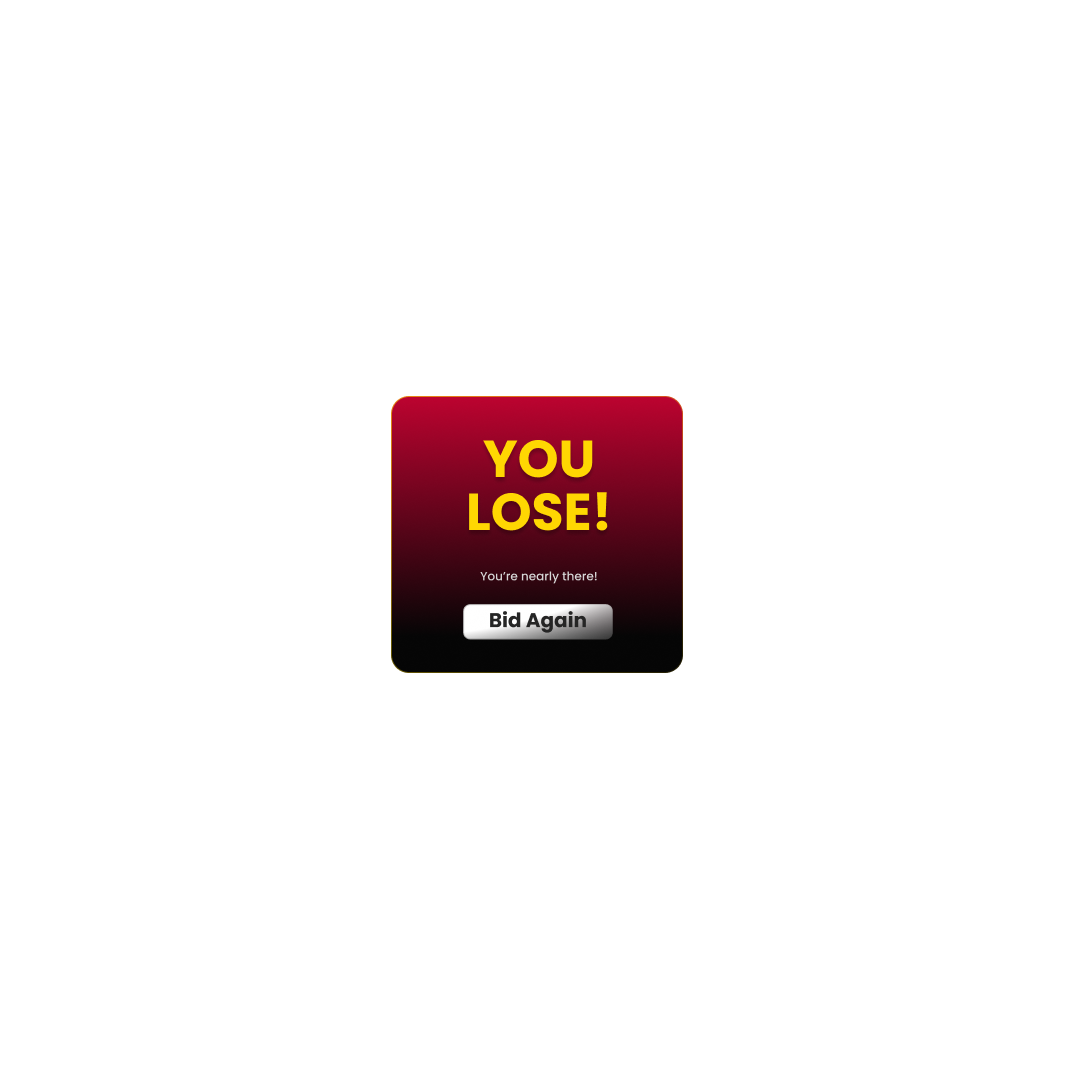
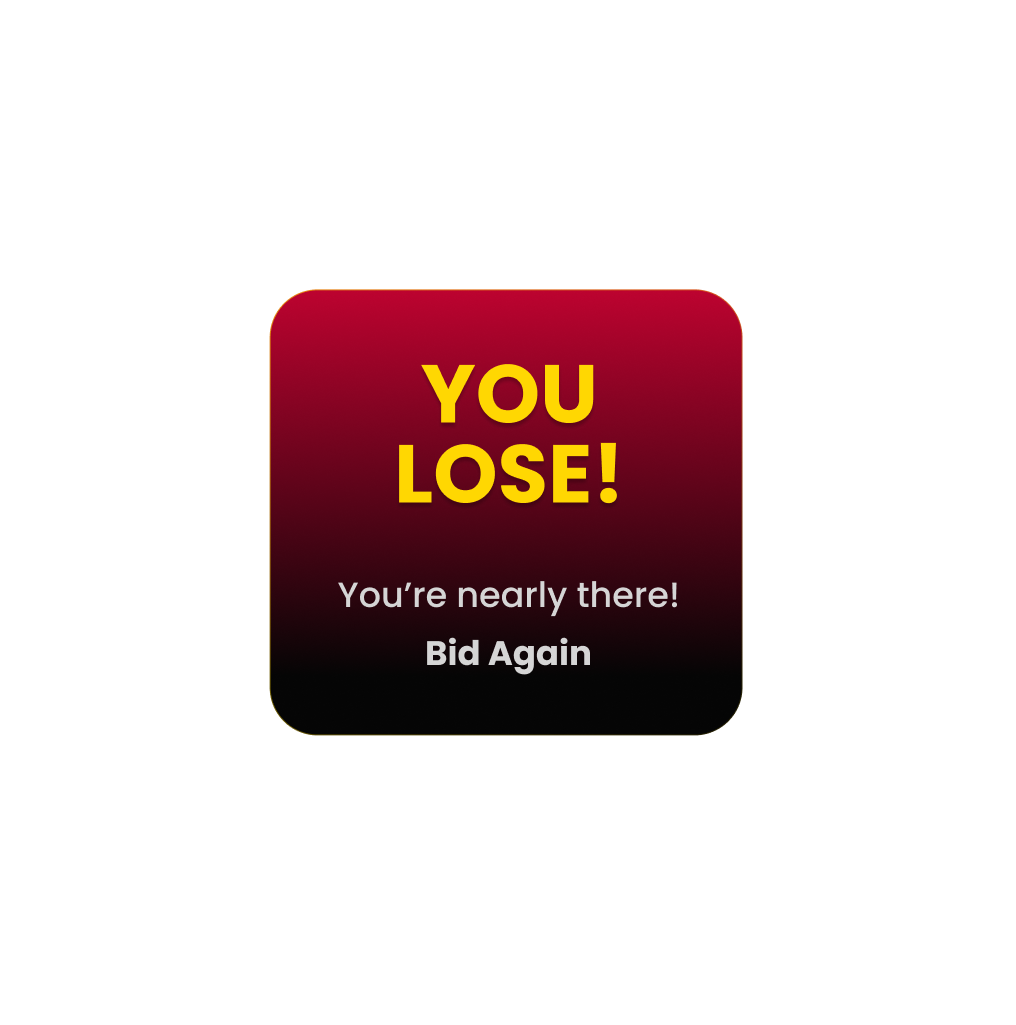
win and lose and timer bug fix

Changed region(s): [[0.2441, 0.281, 0.7323, 0.718]]

diff --git a/src/electra/components/ChatComponents/index.jsx b/src/electra/components/ChatComponents/index.jsx
@@ -25,11 +25,14 @@ const shareButtonStyle = {
     justifyContent: 'center',
     color: 'black',
     alignItems: 'center',
-    marginLeft: 'auto',
-    marginRight: 'auto',
+    marginLeft: '9.5vw',
+    // marginRight: '13vw',
+    // marginBottom:'30vh',
     padding: '10px 20px',
     fontWeight: 700,
-    cursor:"pointer"
+    cursor:"pointer",
+    position:'relative',
+   bottom:'13vh',
   };
 
 const sendButtonStyle={
@@ -240,14 +243,23 @@ const ChatBox = ({userData, websocketData}) => {
         }
 
     }, [winModel,loseModel]);
+
+    useEffect(() => {
+        if (winModel||loseModel) {
+          const timer = setTimeout(() => {
+            closeWinModal()||closeLoseModal()
+          }, 3000); 
+          return () => clearTimeout(timer);
+        }
+      }, [winModel,loseModel]);
     
 
     return (
         <>
         
-        <Modal isOpen={winModel > 0} onClose={ closeWinModal}>
+        <Modal isOpen={winModel > 0} onClose={closeWinModal} >
             <div>
-            <img src={"assets/electra/win-shield.png"}  alt=""  style={{height:"50vh"}}/>
+            <img src={"assets/electra/win-shield.png"}  alt=""  style={{height:"50vh",position:'relative',marginRight:'23vw'}}/>
             <div style={shareButtonStyle} onClick={shareWin}>
                     share &nbsp;&nbsp;
                     <svg xmlns="http://www.w3.org/2000/svg" width="12" height="11" viewBox="0 0 12 11" fill="none">
@@ -260,7 +272,7 @@ const ChatBox = ({userData, websocketData}) => {
 
         <Modal isOpen={loseModel > 0} onClose={closeLoseModal}>
             <div>
-            <img src={"assets/electra/lose.png"}  alt=""  style={{height:"50vh"}}/>
+            <img src={"assets/electra/lose.png"}  alt=""  style={{height:"50vh",position:'relative',marginRight:'23vw',marginBottom:'2vh'}}/>
             {/* <div style={shareButtonStyle} onClick={shareWin}>
                     share &nbsp;&nbsp;
                     <svg xmlns="http://www.w3.org/2000/svg" width="12" height="11" viewBox="0 0 12 11" fill="none">

diff --git a/src/electra/components/Games/mobileGame.jsx b/src/electra/components/Games/mobileGame.jsx
@@ -15,6 +15,9 @@ import losesound from '../../../assets/sounds/win popup.wav'
 const Winsound = new Audio(winsound);
 const Losesound = new Audio(losesound);
 
+
+
+
 const containerStyle = {
     display: 'flex',
     flexDirection: 'column',
@@ -214,12 +217,31 @@ const GameComponent = ({userData, websocketData}) => {
 
 }, [winModel,loseModel]);
 
+useEffect(() => {
+  if (winModel||loseModel) {
+    const timer = setTimeout(() => {
+      closeWinModal()||closeLoseModal()
+    }, 3000); 
+    return () => clearTimeout(timer);
+  }
+}, [winModel,loseModel]);
+
+
+useEffect(() => {
+  if (gameEndModal) {
+    const timer = setTimeout(() => {
+      closeGameEndModal();
+    }, 5000); 
+    return () => clearTimeout(timer);
+  }
+}, [gameEndModal]);
+
 
   return (
 
 
 
-    <div className="game-view">
+    <div className="game-view" style={{maxHeight:'100vh',overflow: 'hidden'}}>
 
       <GameChart />
 
@@ -263,7 +285,7 @@ const GameComponent = ({userData, websocketData}) => {
 
         </Modal>
 
-        <Modal isOpen={loseModel > 0} >
+        <Modal isOpen={loseModel > 0} onClose={closeLoseModal} >
                 <div>
                     <img src={"assets/electra/lose.png"} alt="" style={{ height: "60vw",marginBottom:'30vh' }} />
                     {/* Additional content for lose modal if needed */}

diff --git a/src/electra/components/Games/index.jsx b/src/electra/components/Games/index.jsx
@@ -14,23 +14,27 @@ import { useDispatch  } from 'react-redux';
 
   const containerStyle = {
     display: 'flex',
-    flexDirection: 'column',
+    flexDirection: 'row',
     alignItems: 'center',
     justifyContent: 'center',
     borderRadius:"5vw",
-    height: '5vw',
-    width:"30vw",
+    height: '3vw',
+    width:"20vw",
     background: 'transparent',
     position: 'relative',
+    marginRight:'23vw',
+    marginBottom:'4vh',
+    zIndex:'1'
+    
   };
 
   const textDivStyle = {
-    position: 'absolute',
+    position: 'relative',
     top: '50%', // Adjust as needed
     transform: 'translateY(-50%)',
     opacity: 1,
     color: 'white',
-    fontSize:"calc(10px + 2vw + 2vh)",
+    fontSize:"calc(7px + 2vw + 2vh)",
     fontWeight:"100"
     // Additional styles for the text div as needed
   };
@@ -140,6 +144,16 @@ const closeGameEndModal = () => {
       // Cleanup the interval when the component is unmounted or when the condition is not met
       return () => clearInterval(intervalId);
     }, [websocketData]);
+
+
+    useEffect(() => {
+      if (gameEndModal) {
+        const timer = setTimeout(() => {
+          closeGameEndModal();
+        }, 5000); 
+        return () => clearTimeout(timer);
+      }
+    }, [gameEndModal]);
 
 
   return (
